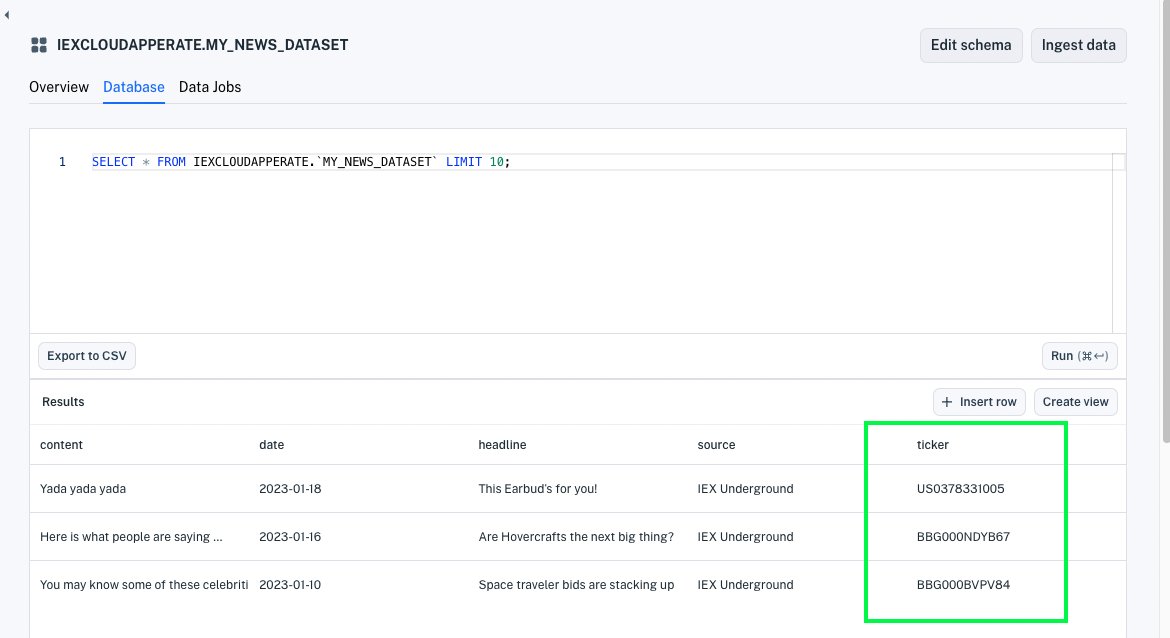
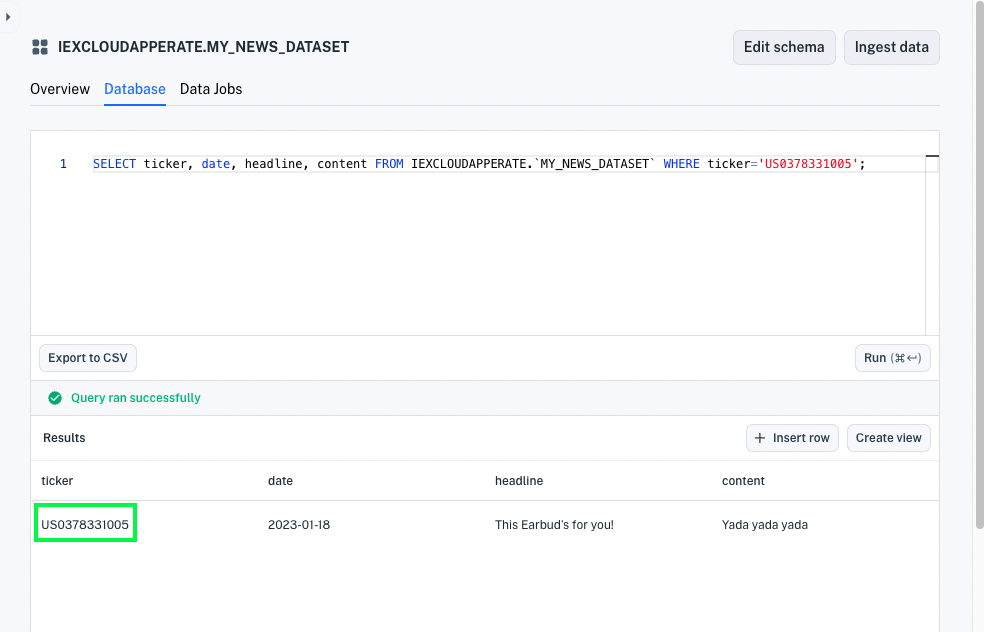
PRD-471 update data normalization screenshots and text

diff --git a/source/using-core-data/using-normalized-financial-data.md b/source/using-core-data/using-normalized-financial-data.md
@@ -15,9 +15,7 @@ You can query normalized financial datasets using symbols of *any* supported [fi
 
 ![](./using-normalized-financial-data/dataset-with-figi-tickers.png)
 
-You can, however, query the dataset refering to Apple as `AAPL`. 
-
-Here is a SQL query and HTTP request that use the `AAPL` symbol to query for Apple data in a dataset that uses FIGI symbols.
+You can, however, query the dataset refering to Apple as `AAPL`. Here is a SQL query and HTTP request that query the dataset using the `AAPL` symbol.
 
 **SQL Query:**
 
@@ -28,7 +26,7 @@ SELECT * FROM IEXCLOUDAPPERATE.`MY_NEWS_DATASET` where ticker='AAPL';
 **REST API URL:**
 
 ```
-https://IEXCLOUDAPPERATE.iex.cloud/v1/data/IEXCLOUDAPPERATE/IEXCLOUDAPPERATE_NEWS_DATASET/AAPL?token=TOKEN
+https://IEXCLOUDAPPERATE.iex.cloud/v1/data/IEXCLOUDAPPERATE/MY_NEWS_DATASET/AAPL?token=TOKEN
 ```
 
 **REST API URL Response:**
@@ -45,11 +43,17 @@ https://IEXCLOUDAPPERATE.iex.cloud/v1/data/IEXCLOUDAPPERATE/IEXCLOUDAPPERATE_NEW
 ]
 ```
 
-You can similarly join datasets on normalized symbol data.
+You can join datasets on normalized symbol data.
 
 ## Joining Datasets on Normalized Symbols
 
-You can, for example, create a view of Apple high, open, low, close data and corporate details by joinging this AAPL_FIGI dataset with the Core COMPANY_HISTORICAL dataset. Here's the SQL.
+The COMPANY Core dataset identifies Apple using the symbol value `AAPL`.
+
+![](./using-normalized-financial-data/company-uses-aapl.png)
+
+Despite COMPANY and the example MY_NEWS_DATASET dataset identifying Apple with different values (the `US0378331005` FIGI symbol and common `AAPL` symbol), both datasets normalize their ticker/symbol properties using Apperate [SmartLinks](../reference/glossary.md#smartlink). SmartLinks enables you to join datasets on equivalent, SmartLinked values.
+
+You can, for example, create a view of Apple news from MY_NEWS_DATASET and Apple company information from COMPANY by joining the datasets on their SmartLinked ticker/symbol properties.
 
 **SQL Query:**
 
